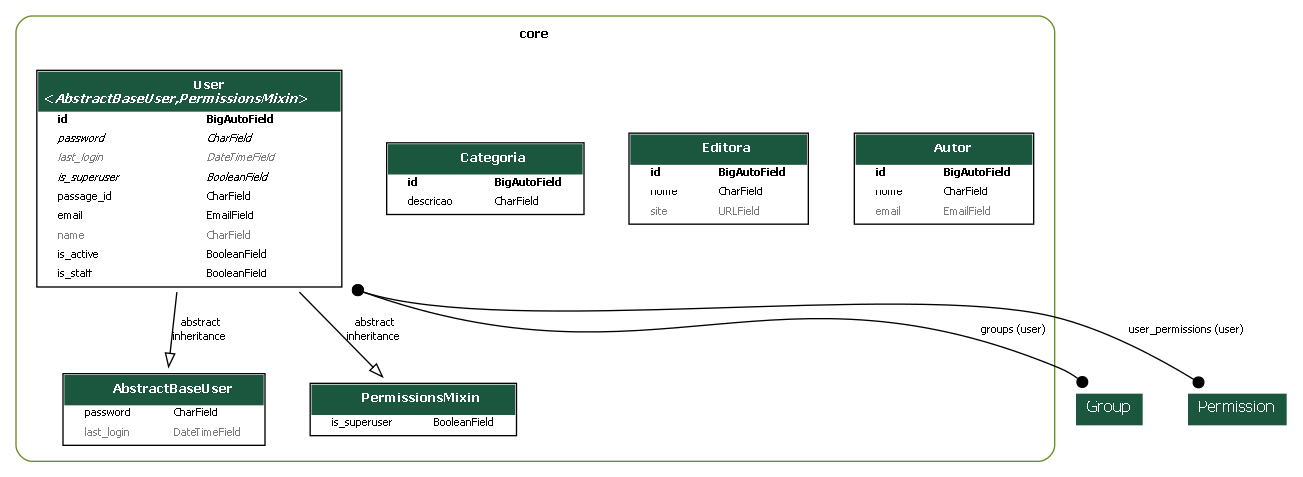
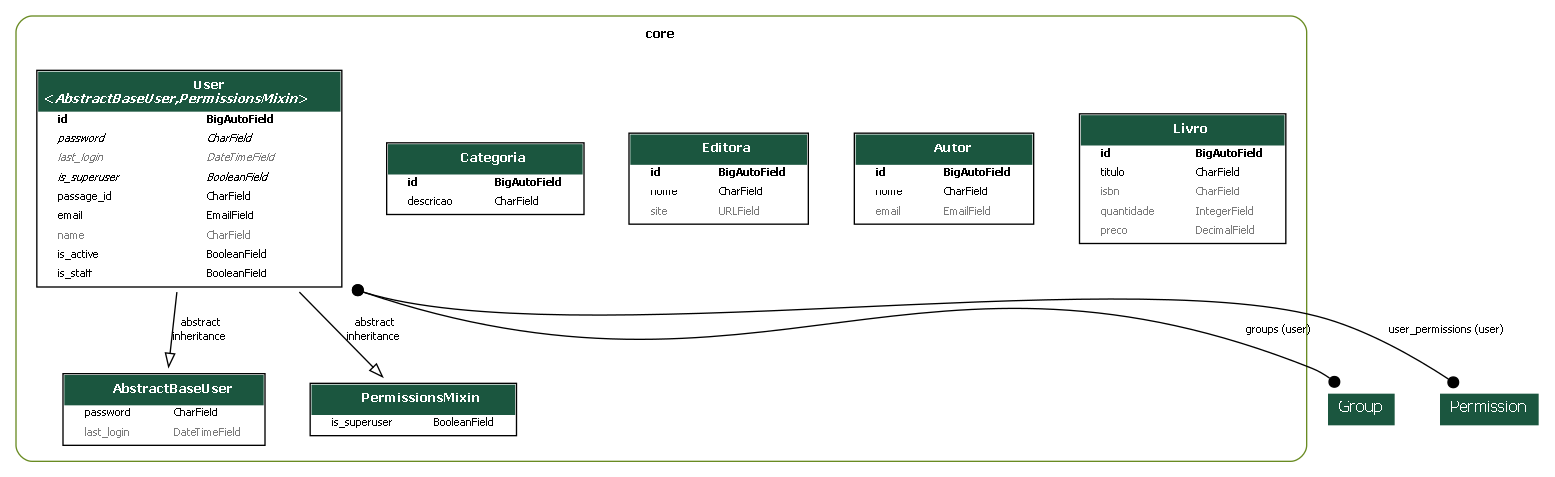
feat: criação da entidade para Livro

diff --git a/core/migrations/0008_livro.py b/core/migrations/0008_livro.py
@@ -1,0 +1,23 @@
+# Generated by Django 5.1.7 on 2025-05-25 17:47
+
+from django.db import migrations, models
+
+
+class Migration(migrations.Migration):
+
+    dependencies = [
+        ('core', '0007_autor'),
+    ]
+
+    operations = [
+        migrations.CreateModel(
+            name='Livro',
+            fields=[
+                ('id', models.BigAutoField(auto_created=True, primary_key=True, serialize=False, verbose_name='ID')),
+                ('titulo', models.CharField(max_length=255)),
+                ('isbn', models.CharField(blank=True, max_length=32, null=True)),
+                ('quantidade', models.IntegerField(blank=True, default=0, null=True)),
+                ('preco', models.DecimalField(blank=True, decimal_places=2, default=0, max_digits=7, null=True)),
+            ],
+        ),
+    ]

diff --git a/app/urls.py b/app/urls.py
@@ -7,7 +7,7 @@ from drf_spectacular.views import (
 )
 from rest_framework.routers import DefaultRouter
 
-from core.views import UserViewSet, CategoriaViewSet, EditoraViewSet, AutorViewSet
+from core.views import UserViewSet, CategoriaViewSet, EditoraViewSet, AutorViewSet, LivroViewSet
 
 
 
@@ -16,6 +16,7 @@ router = DefaultRouter()
 router.register(r"autores", AutorViewSet)
 router.register(r"categorias", CategoriaViewSet)
 router.register(r"usuarios", UserViewSet, basename="users")
+router.register(r"livros", LivroViewSet, basename="livros")
 router.register(r"editoras", EditoraViewSet, basename="editoras")
 
 urlpatterns = [

diff --git a/core/models/livro.py b/core/models/livro.py
@@ -1,0 +1,9 @@
+from django.db import models
+class Livro(models.Model):
+    titulo = models.CharField(max_length=255)
+    isbn = models.CharField(max_length=32, null=True, blank=True)
+    quantidade = models.IntegerField(default=0,  null=True, blank=True)
+    preco = models.DecimalField(max_digits=7, decimal_places=2, default=0, null=True, blank=True)
+
+    def __str__(self):
+        return f"({self.id}) {self.titulo} ({self.quantidade})"

diff --git a/core/views/livro.py b/core/views/livro.py
@@ -1,0 +1,8 @@
+from rest_framework.viewsets import ModelViewSet
+
+from core.models import Livro
+from core.serializers import LivroSerializer
+
+class LivroViewSet(ModelViewSet):
+    queryset = Livro.objects.all()
+    serializer_class = LivroSerializer

diff --git a/core/serializers/livro.py b/core/serializers/livro.py
@@ -1,0 +1,8 @@
+from rest_framework.serializers import ModelSerializer
+
+from core.models import Livro
+
+class LivroSerializer(ModelSerializer):
+    class Meta:
+        model = Livro
+        fields = "__all__"

diff --git a/core/admin.py b/core/admin.py
@@ -55,3 +55,4 @@ admin.site.register(models.User, UserAdmin)
 admin.site.register(models.Categoria)
 admin.site.register(models.Editora)
 admin.site.register(models.Autor)
+admin.site.register(models.Livro)

diff --git a/core/serializers/__init__.py b/core/serializers/__init__.py
@@ -2,3 +2,4 @@ from .user import UserSerializer
 from .categoria import CategoriaSerializer
 from .editora import EditoraSerializer
 from .autor import AutorSerializer
+from .livro import LivroSerializer

diff --git a/core/views/__init__.py b/core/views/__init__.py
@@ -2,3 +2,4 @@ from .user import UserViewSet
 from .categoria import CategoriaViewSet
 from .editora import EditoraViewSet
 from .autor import AutorViewSet
+from .livro import LivroViewSet

diff --git a/core/models/__init__.py b/core/models/__init__.py
@@ -2,3 +2,4 @@ from .user import User
 from .categoria import Categoria
 from .editora import Editora
 from .autor import Autor
+from .livro import Livro
